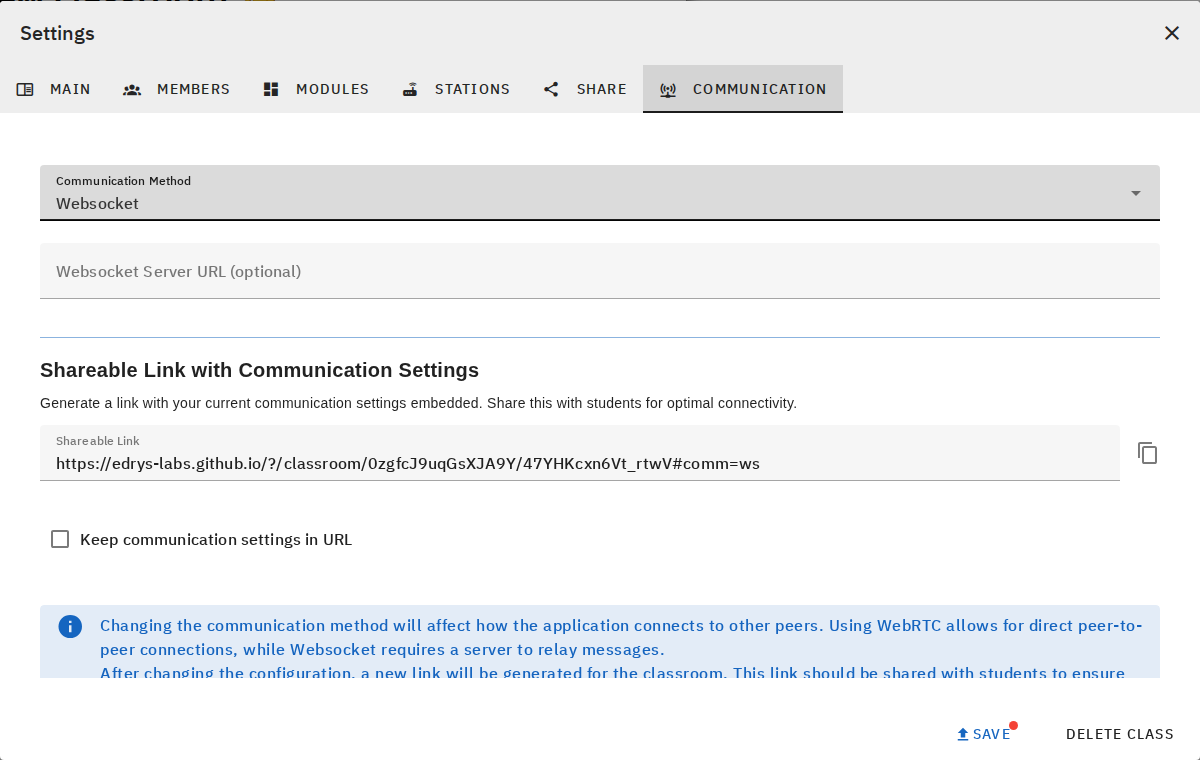
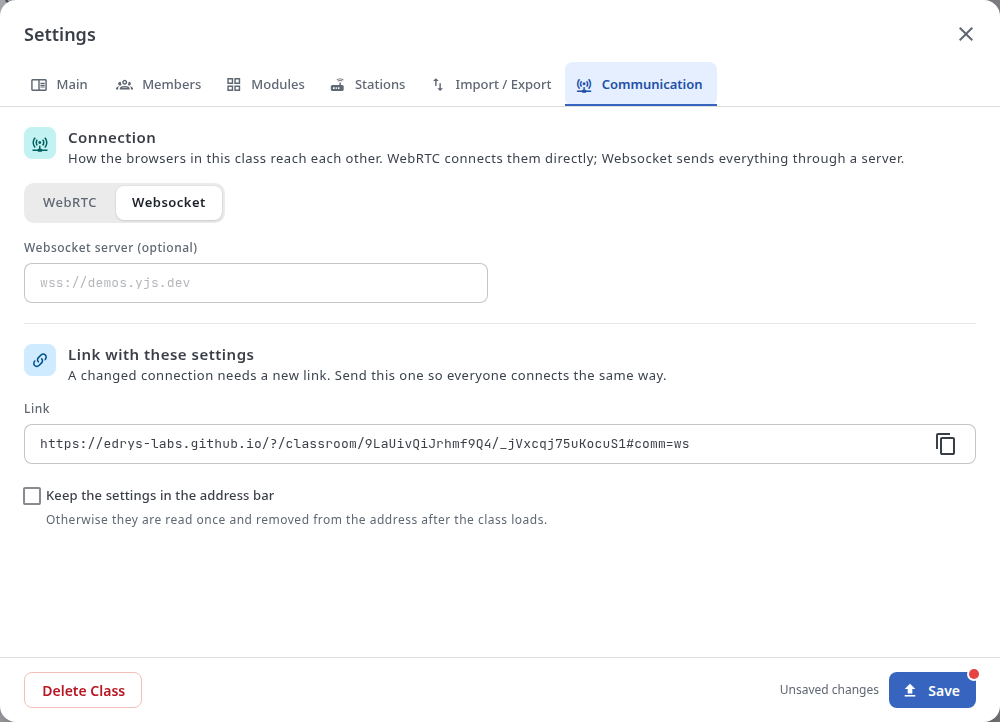
new screenshots and wording for the redesigned interface

diff --git a/README.md b/README.md
@@ -2,7 +2,7 @@
 
 author:   André Dietrich; Jihad Hyadi
 
-version:  0.1.0
+version:  1.5.0
 
 language: en
 
@@ -69,10 +69,10 @@ There is no account to create and nothing to install.
 A classroom lives in the browsers of the people who use it, and everyone connects directly to each other.
 All you need is a modern browser and the link to a classroom.
 
-- ✅ No sign-up, no password, no installation
-- ✅ Works in Chrome, Edge, Firefox and Safari
-- ✅ Classrooms are made of _modules_: editors, terminals, camera streams, task descriptions, ...
-- ✅ Remote hardware (e.g. an Arduino) can be shared with students through _stations_
+- No sign-up, no password, no installation
+- Works in Chrome, Edge, Firefox and Safari
+- Classrooms are made of _modules_: editors, terminals, camera streams, task descriptions, ...
+- Remote hardware (e.g. an Arduino) can be shared with students through _stations_
 
 !?[YouTube Demo](https://www.youtube.com/watch?v=6ZjGHorc2ds)
 
@@ -105,7 +105,7 @@ A short version of the ID is shown there; the copy button next to it copies the 
 
 - Your ID is tied to **this browser**. Another browser, another device, or a private window gives you a different ID.
 - Clearing the site data of your browser deletes your ID and the classrooms stored in it. Download a backup of your classrooms first (see [Backup, Restore and Templates](#Backup%2C-Restore-and-Templates)).
-- The same menu also lets you switch the language of the interface.
+- The same menu also lets you switch the language of the interface and the theme: `Light`, `Dark`, or `System` to follow your device.
 
 </section>
 
@@ -114,6 +114,7 @@ A short version of the ID is shown there; the copy button next to it copies the 
 *    --{{0}}--
   Visit https://edrys-labs.github.io and click on `Create a class`.
   By the way, the buttons in the footer allow you to have a look at the project on GitHub, read this documentation, explore several ready-to-use remote labs and visit the blog.
+  The menu with the three dots (⋮) in the top right corner holds your User ID, the language and the theme.
 
   ![Edrys-Lite](images/edrys-page.png)
 
@@ -125,12 +126,17 @@ A short version of the ID is shown there; the copy button next to it copies the 
   ![Edrys initial classroom](images/edrys-initial-classroom.png)
 
 *    --{{0}}--
+  The button in the top left corner (☰) opens the rooms menu. It lists the rooms and the people in them, and the ⚙ `Settings` button next to the class name.
+  While the menu is closed, the top bar shows the room you are in and how many people are there.
+
+*    --{{0}}--
   Students who open the classroom before you have set it up see a short note asking them to come back later.
 
 ### Inviting People
 
     --{{0}}--
-To invite people, share the classroom link from your browser's address bar.
+To invite people, send them the classroom link.
+You find it as `Class link` at the top of `Settings` → `Members`, with buttons to copy it or to open it in a new tab. It is the same link as in your browser's address bar.
 
 ```
 https://edrys-labs.github.io/?/classroom/<classroom-id>/<owner>
@@ -145,29 +151,34 @@ By default, everyone with the link can join as a student.
 If you want to restrict who may take part, add your students to the members list (see [Members](#Members)).
 
     --{{0}}--
-Every classroom you created or joined is listed on the start page, so you can come back to it later.
-From there you can open it again, fork it (make your own copy), or delete it from your browser.
+Every classroom you created or joined is listed on the start page under `Your classrooms`, so you can come back to it later.
+Each card shows whether you own the class or take part as a teacher or student. From there you can open it again, fork it (make your own copy), or delete it from your browser.
+A class without a logo gets a generated picture, so the cards are easy to tell apart.
 
 ![Index-Page](images/edrys-index.png)
+
+    --{{0}}--
+The note above the cards is a reminder that your classrooms are stored only in this browser (see [Backup, Restore and Templates](#Backup%2C-Restore-and-Templates)).
 
 
 ## Setting up a Classroom
 
     --{{0}}--
-Teachers configure the classroom through the `Settings` button next to the classroom name.
-The settings are split into the tabs Main, Members, Modules, Stations, Share and Communication.
-Changes are applied to everyone in the classroom as soon as you click `Save`.
+Teachers configure the classroom through the ⚙ `Settings` button next to the class name in the rooms menu (☰).
+The settings are split into the tabs Main, Members, Modules, Stations, Import / Export and Communication.
+Changes are applied to everyone in the classroom as soon as you click `Save`. Until then, `Unsaved changes` is shown next to the button.
 
 ### Main Settings
 
     --{{0}}--
-In the Main tab you can give your classroom a descriptive title, reference a logo and add a description.
-These are also shown in the classroom overview on the start page.
+In the Main tab you can give your classroom a name and a description, and optionally the URL of a logo.
+If you leave the logo empty, the class keeps its generated picture.
+The preview next to the fields shows how the class appears on the start page.
 
 ![Add Meta Information](images/main-settings.png)
 
     --{{0}}--
-The number of rooms defines how many numbered rooms (Room 1, Room 2, ...) the classroom has next to the Lobby.
+The number of rooms defines how many numbered rooms (Room 1, Room 2, ...) the classroom opens with next to the Lobby. Stations add their own rooms on top.
 
 <section>
 
@@ -182,12 +193,13 @@ The number of rooms defines how many numbered rooms (Room 1, Room 2, ...) the cl
 
     --{{0}}--
 In the Members tab you decide who teaches and who may take part.
-Members are added by their User ID (see [Your User ID](#Your-User-ID)), one ID per line.
+At the top you find the `Class link` to send to your class (see [Inviting People](#Inviting-People)).
+Below, members are added by their User ID (see [Your User ID](#Your-User-ID)), separated by commas.
 
 ![Members Settings](images/members.png)
 
     --{{0}}--
-Teacher IDs get access to the settings, so they can modify the classroom just like you.
+Teachers get access to the settings, so they can change the classroom just like you: its settings, modules and members.
 The student list works as follows:
 
 <section>
@@ -210,16 +222,16 @@ Modules are the building blocks of a classroom: task descriptions, code editors,
 Open `Settings` → `Modules` to add them.
 
     --{{1}}--
-Using the Modules Explorer, you can add modules to the classroom by clicking on the `Add` button.
-The most frequently used modules are listed first.
+Click on `Explore modules` to open the Modules Explorer, and add a module to the classroom with its `Add` button.
+The most frequently used modules are listed first; the ⓘ button leads to a module's github repository.
 
       {{1}}
 ![Add Module from Explorer](images/add-module-0.png)
 
     --{{2}}--
-For more modules, click on the `Explore More` button in the Explorer to see a list of all modules.
+For more modules, click on `Explore more` at the bottom of the Explorer to see a list of all modules.
 Every module comes with a description of its configuration and an __include URL__.
-You can copy the URL of a module and paste it into the input field.
+You can copy the URL of a module, paste it into the `Module URL` field and click `Add`.
 
       {{2}}
 ![Add Module](images/add-module-1.png)
@@ -237,21 +249,25 @@ Some of the most used edrys modules are:
 ### Configuring Modules
 
     --{{0}}--
-Click on the gear icon next to a module to configure it.
-Here you can set its size (width and height), the rooms it appears in, and its content and settings.
-
-![Configure Module](images/add-module-2.png)
+Click on the settings button (the sliders icon) next to a module to configure it.
+The dialog has two parts: `Module Configuration` and `Advanced (raw config)`.
 
     --{{0}}--
-Many modules provide a configuration form with fields, checkboxes and drop-down lists.
+Many modules provide a configuration form under `Module Configuration`, with fields, checkboxes and drop-down lists.
 Some drop-down lists are presets: picking one fills in the fields below it with suitable values, which you can then adjust.
-If you prefer, you can switch to the advanced view and edit the raw configuration as YAML or JSON.
 
 ![Module Configuration Form](images/add-module-3.png)
 
     --{{0}}--
-Settings can be given for everyone (`config`), or separately for students, teachers and stations.
-If a module's configuration contains an error, its gear icon turns into a warning sign.
+Under `Advanced (raw config)`, every part of the module has its own row, with a summary of its current value: the module `URL`, its `Design` (width and height), its settings as YAML or JSON, and `Show in`, the rooms it appears in.
+Click on a row to open it.
+
+![Configure Module](images/add-module-2.png)
+
+    --{{0}}--
+Settings can be given for everyone (`General Settings`), or separately for students, teachers and stations.
+If a module's configuration contains an error, the module shows `Module configuration has errors` in the list.
+Click `Save Configuration` to close the dialog, and `Save` in the settings to apply the changes.
 
     --{{0}}--
 You can drag and drop modules to rearrange them. In the list, modules are grouped by the rooms they appear in.
@@ -259,7 +275,9 @@ You can drag and drop modules to rearrange them. In the list, modules are groupe
 #### Show in
 
     --{{0}}--
-The `Show in` field decides in which rooms a module appears. It is a comma separated list of the following entries:
+`Show in` decides in which rooms a module appears.
+The buttons `All rooms`, `Lobby`, one per room and `Station` switch the places on and off.
+Below them, the `As text` field shows the same as a comma separated list, which you can also edit by hand. It accepts the following entries:
 
 <section>
 
@@ -277,6 +295,7 @@ The `Show in` field decides in which rooms a module appears. It is a comma separ
 
     --{{1}}--
 For example, `lobby, Room 1, Room 2` shows a module in the Lobby and the first two rooms, and `station, station-only` shows it only to the station device, e.g. for a hardware connection that students should not see.
+`teacher-only` and `station-only` have no button; type them into the text field.
 If no module is configured for a room, the room shows a short note instead.
 
 
@@ -284,14 +303,15 @@ If no module is configured for a room, the room shows a short note instead.
 
     --{{0}}--
 There is no central server that stores your classroom: it lives in your browser and in the browsers of the people who use it.
-Open `Settings` → `Share` to download a backup of your classroom, or to restore one.
+Open `Settings` → `Import / Export` to download a backup of your classroom, or to restore one.
 Download a backup now and then, and always before you clear your browser data.
+If you have to restore a class after that, create a new class and restore the backup into it. The new class has a new link, so share it again.
 
       {{1}}
 ![Load Config](images/load-config.png)
 
     --{{2}}--
-You can download the configuration as a JSON or YAML file, whereby we prefer YAML for its better readability.
+Under `Download` you can save the configuration as a YAML or JSON file, whereby we prefer YAML for its better readability.
 The result looks similar to the following example, which can be modified manually or shared with others.
 
      {{2}}
@@ -322,10 +342,11 @@ The file contains no keys or signatures.
 Whoever restores it becomes the owner of the restored classroom, so a file can be shared freely as a template.
 
     --{{2}}--
-You can restore a configuration either from your local file system or, if it is hosted somewhere on the web, by pasting the URL of the file.
+Under `Restore` you can load a configuration either from a file on your computer or, if it is hosted somewhere on the web, from a link to the file. Click `Restore` next to it.
+The loaded configuration replaces the setup of the current class, but nothing changes for the others until you click `Save`.
 
     --{{3}}--
-Some ready-to-use classroom configurations are available in the following repositories (you can also just click the deploy button of the desired configuration):
+Some ready-to-use classroom configurations are available in the following repositories, which `Explore on GitHub` under `Find labs` opens (you can also just click the deploy button of the desired configuration):
 
       {{3}}
 https://github.com/topics/edrys-lab
@@ -352,7 +373,7 @@ You can try this out by yourself by clicking on the following button:
 By default, edrys-Lite connects everyone directly to each other via WebRTC. However, under certain network conditions, such as strict firewalls or NATs at schools and universities, WebRTC may not work reliably.
 
     --{{1}}--
-In such cases, you can switch to a WebSocket connection in `Settings` → `Communication`. All messages are then relayed through a WebSocket server.
+In such cases, you can switch from `WebRTC` to `Websocket` in `Settings` → `Communication`. All messages are then relayed through a WebSocket server.
 
     {{1}}
 ![Change Communication Protocol](images/communication-ws.png)
@@ -365,15 +386,15 @@ For both methods you can optionally change the server settings, such as the sign
 
     --{{2}}--
 Everyone in a classroom has to use the same settings to find each other.
-The Communication tab therefore shows a share link that contains these settings; send this link to your students instead of the plain classroom link.
-If you tick the option to keep the settings in the URL, your own address bar shows this link as well.
+The Communication tab therefore shows a `Link with these settings`; send this link to your students instead of the plain classroom link.
+If you tick `Keep the settings in the address bar`, your own address bar shows this link as well. Otherwise the settings are read once and removed from the address after the class loads.
 
 
 ## Working in a Classroom
 
     --{{0}}--
-Once you have joined a classroom, the side menu on the left lists its rooms and who is in them.
-Click on a room to move there. Everyone starts in the Lobby.
+Once you have joined a classroom, the rooms menu (☰, or the room name in the top bar) lists its rooms and who is in them.
+Click on a room to move there. Everyone starts in the Lobby. Each room has its own color and letter, which also mark it in the top bar and in the settings.
 
     --{{0}}--
 The modules of a room are shared by everyone in it: if one student types into an editor, the others see it right away, together with each other's cursors.
@@ -381,8 +402,9 @@ Each room has its own state, so different groups can work in different rooms wit
 
 <section>
 
-- **Room list:** Each person is shown with an icon for their role (teacher, student, station, visitor). Your own name is highlighted.
+- **Room list:** Below each room you see who is in it. You are marked with `you`, and teachers and visitors with their role; everyone else is a student. Stations have their own mark.
 - **Chat:** The chat button in the top bar opens the classroom chat. A badge tells you when new messages have arrived. Messages can be formatted with Markdown.
+- **Full screen:** The button in the top right corner of a module expands it to the whole window; press it again to leave full screen.
 - **Connection:** If your connection to the classroom is lost, a `Reconnecting…` notice appears in the top bar. edrys-Lite reconnects by itself.
 
 </section>
@@ -401,13 +423,15 @@ Stations can run on any device with a browser, including servers, laptops, Raspb
 ### Opening a Station
 
     --{{0}}--
-In `Settings` → `Stations` you find the station link of your classroom. Open it on the device that should become the station (only a teacher can open a station).
+In `Settings` → `Stations` you find the station link of your classroom, with buttons to copy or open it. Open it on the device that should become the station (only a teacher can open a station).
 The link looks like the classroom link, but contains `station` instead of `classroom`, so the browser knows that it has to operate in station mode.
+Below the link, `Connected stations` lists the stations that are open right now, with the number of people in each.
 
 ![Station](images/station-settings.png)
 
     --{{0}}--
 The station appears as a separate room in the classroom, and students can interact with it by clicking on the room.
+On the station itself, a `Station Mode Active` box shows its name. Type a new name and press the arrow button to rename it; `Exit Station Mode` opens the normal classroom link instead.
 Every station also has its own user, which is shown in the room list. Changing the station name also changes this user name.
 You can open multiple stations in parallel on different devices to make several hardware resources available.
 
@@ -481,7 +505,7 @@ Open `Settings` → `Main`, call it "Arduino Remote Lab", add a short descriptio
 #### Step 2: Describe the lab
 
     --{{0}}--
-Open `Settings` → `Modules`. You can reuse the welcome guide that every new classroom starts with: click its gear icon. Its text is stored in the student and teacher fields of the form; clear both and write your instructions into the general field, which everyone sees. Keep `lobby` in its `Show in` field.
+Open `Settings` → `Modules`. You can reuse the welcome guide that every new classroom starts with: click its settings button (the sliders icon). Its text is stored in the student and teacher fields of the form; clear both and write your instructions into the general field, which everyone sees. Keep `lobby` in its `Show in` field.
 
 ``` markdown
 # Arduino Remote Lab
@@ -498,7 +522,7 @@ The form has separate fields for everyone, for students and for teachers, so you
 #### Step 3: Add the code editor
 
     --{{0}}--
-Add the Code Editor from the Modules Explorer (`module-monaco-editor`) and click its gear icon.
+Click `Explore modules`, add the Code Editor (`module-monaco-editor`) and click its settings button.
 
 <section>
 
@@ -523,14 +547,14 @@ void loop() {
 }
 ```
 
-- `Show in` (under `Advanced`): `station`
+- `Show in` (under `Advanced (raw config)`): only the `Station` button
 
 </section>
 
 #### Step 4: Add the camera
 
     --{{0}}--
-Add the Video Stream module (`module-streaming`). In its station settings, turn `video` on and `audio` off, and keep the method `webrtc`. Set `Show in` to `station`.
+Add the Video Stream module (`module-streaming`). In its station settings, turn `video` on and `audio` off, and keep the method `webrtc`. Set `Show in` to `Station`.
 The station shares its camera, and everyone who enters the station room sees it.
 
 #### Step 5: Add the terminal
@@ -546,14 +570,14 @@ In its station settings:
 - `execute`: `execute`, the same name as the editor's `runCommand`
 - `workflow`: `arduino-avr`. This preset fills in the board (`arduino:avr:uno`), the port (`/dev/ttyACM0`), the baud rate (`9600`) and the script that compiles, uploads and then shows the serial output. Change the board or port if yours differ.
 - `enable`: tick `student` (and `teacher`). Without it, the station ignores code and keystrokes sent by students.
-- `Show in`: `station`
+- `Show in`: `Station`
 
 ![Terminal configuration with the arduino-avr workflow](images/add-module-3.png)
 
 </section>
 
     --{{1}}--
-Click `Save` in the settings. The classroom is now set up; all that is missing is a station.
+Click `Save Configuration`, then `Save` in the settings. The classroom is now set up; all that is missing is a station.
 
 #### Step 6: Prepare the station computer
 
@@ -573,7 +597,7 @@ If your board is not on `/dev/ttyACM0`, check with `ls /dev/ttyACM* /dev/ttyUSB*
 
     --{{0}}--
 Open `Settings` → `Stations` and open the station link in a browser on the station computer (see [Opening a Station](#Opening-a-Station)). Allow access to the camera when the browser asks.
-A new room `Station <name>` appears in the classroom, showing the editor, the camera and the terminal. The terminal should report that it is connected.
+A new room `Station <name>` appears in the classroom and under `Connected stations`, showing the editor, the camera and the terminal. The terminal should report that it is connected.
 
 #### Step 8: Test it as a student
 
@@ -586,9 +610,9 @@ The terminal shows the compiler output and then the serial output, `on` and `off
 
 <section>
 
-- Share the classroom link with your students (see [Inviting People](#Inviting-People)).
+- Share the `Class link` from `Settings` → `Members` with your students (see [Inviting People](#Inviting-People)).
 - For more boards, open the same station link on further computers, each with its own Arduino. Every station becomes its own room, so groups can work in parallel.
-- Download a backup in `Settings` → `Share`. The file can also serve as a template for other courses (see [Backup, Restore and Templates](#Backup%2C-Restore-and-Templates)).
+- Download a backup in `Settings` → `Import / Export`. The file can also serve as a template for other courses (see [Backup, Restore and Templates](#Backup%2C-Restore-and-Templates)).
 
 </section>
 
@@ -1580,7 +1604,7 @@ A good report lets us reproduce the problem. Please include:
 - **The connection method**, WebRTC or WebSocket (see `Settings` → `Communication`), and whether you are on a school or company network
 - **Error messages** from the browser console: press `F12` (or `Cmd+Option+I` on a Mac), open the `Console` tab, and copy the red entries
 - **Screenshots or a short screen recording**, if the problem is visible
-- For problems with a lab, the **classroom configuration** from `Settings` → `Share`. The file contains no keys or signatures, so it is safe to attach.
+- For problems with a lab, the **classroom configuration** from `Settings` → `Import / Export`. The file contains no keys or signatures, so it is safe to attach.
 
 </section>
 
